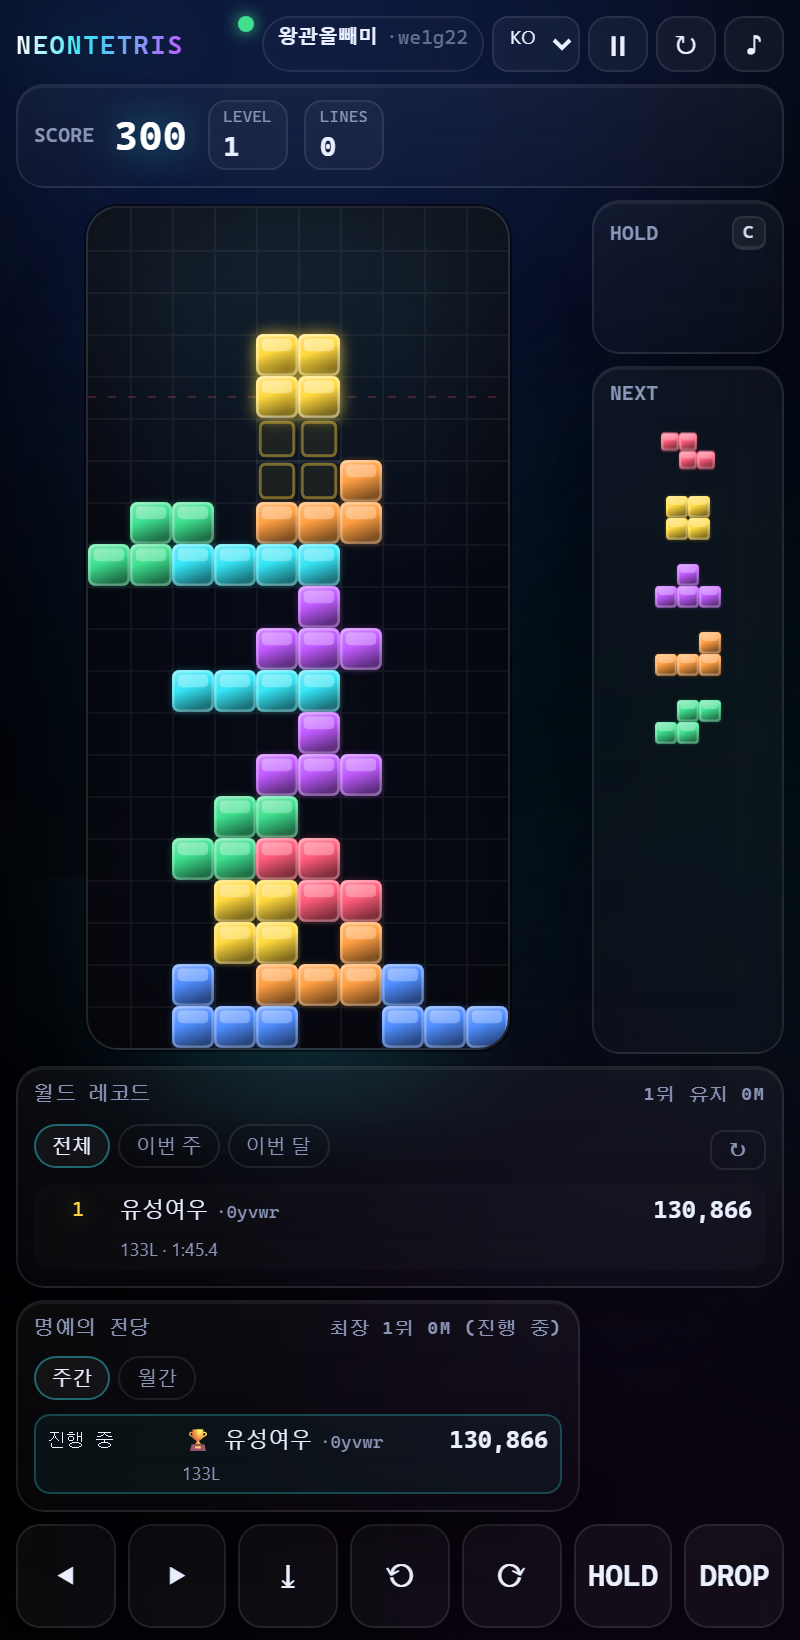
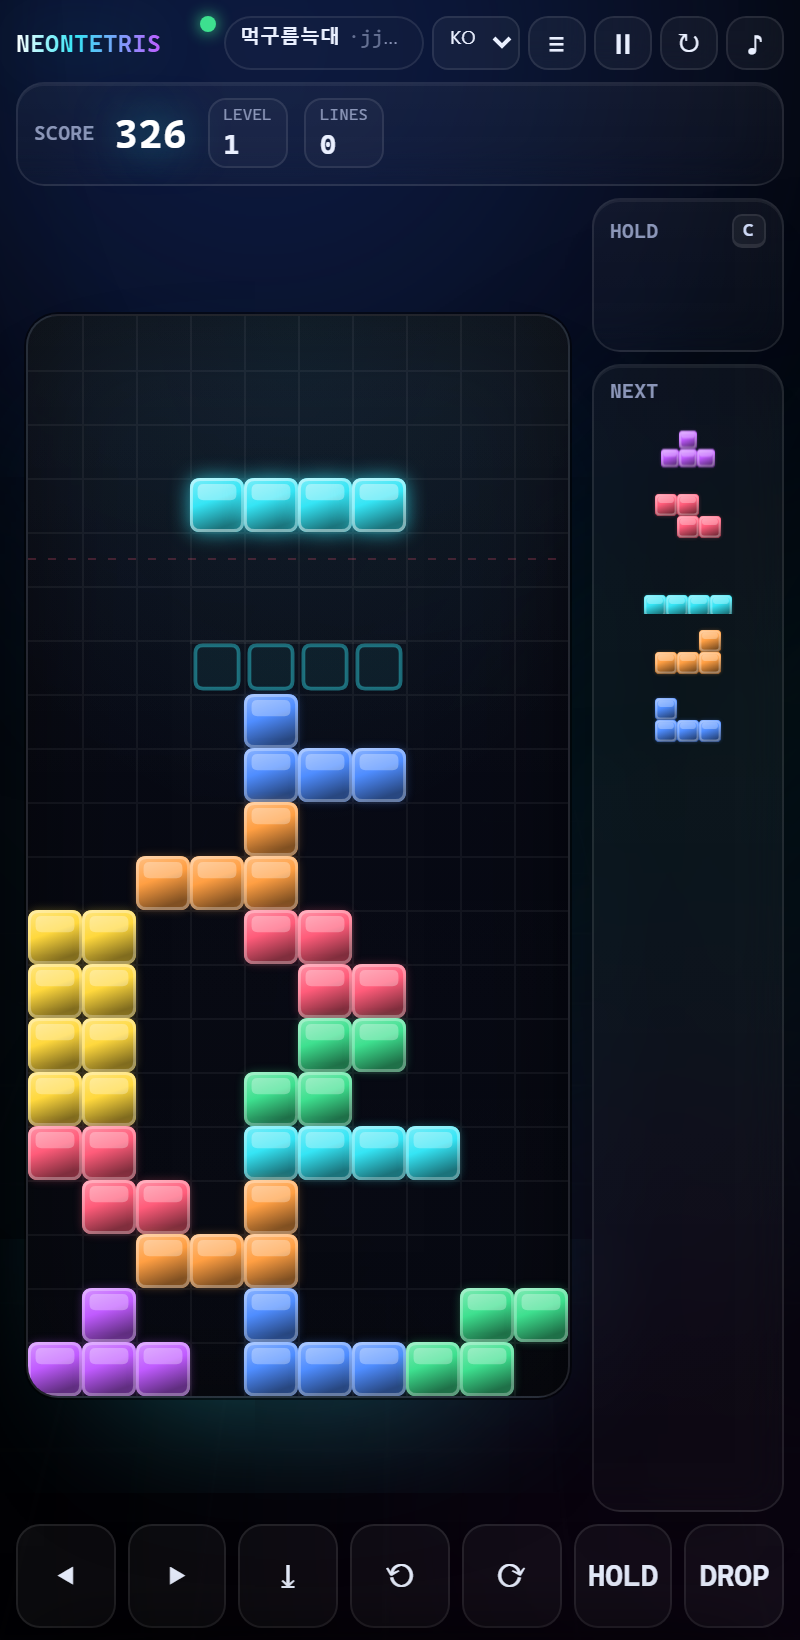
모바일: 월드 보드·명예의 전당을 ≡ 시트로 (보드 칸 21 → ~28px)
구조: index.html 에 .pane(id=pane) 을 만들어 worldCard + hofCard 를 감싼다.
- 데스크톱: .pane { display: contents } → 두 카드는 그냥 오른쪽 열에 쌓인다. 레이아웃 변화 0.
  (.side 가 모바일에서 이미 쓰던 기법이라 새 개념이 아니다.)
- 모바일: .pane 이 bottom 에 고정된 시트(최대 78vh, 스크롤)가 되고, body.pane-open 일 때 올라온다.
  바깥(스크림) 을 누르면 닫힌다. Esc 로는 닫지 않는다 — Esc 는 게임 쪽 일시정지와 겹쳐서
  한 키가 두 일을 하게 되기 때문(의도적). 시작(START) 시에는 위임 이벤트로 자동으로 닫는다.

왜 이렇게까지 하는가: 보드는 10×20 라서 세로가 항상 부족한 축인데, 카드 두 장이 화면 아래에서
그 자리를 쓰고 있었다. 흐름에서 빼면 그 세로가 보드로 간다 → 실측 칸 21px → ≥26px (probe 가 ≥26 고정).

≡ 버튼 하나 넣고 바로 걸린 것: 아이콘이 4개가 되면서 상단 바가 다시 넘쳤다(398>384, ♪ 잘림).
어제 넣은 검정 2개("상단 바가 폭을 넘치지 않는다", "버튼이 오른쪽 밖으로 잘리지 않는다")가
그 자리에서 FAIL 로 잡았다 — 사람이 눈으로 다시 보지 않아도 되는 상태.
예산 규칙을 주석으로 남겼다: 버튼은 눌러야 하므로 고정, 닉네임·브랜드가 양보한다(칩 max-width 100px).

추가로 발견한 오래된 구멍: data-i18n-title 속성을 쓰는 요소(langSel, 새 paneBtn)가 몇 개 있는데
applyI18n() 이 [data-i18n] 과 [data-i18n-ph] 만 처리해서, 툴팁이 늘 한국어 원문으로 남아 있었다. 처리기 추가.

검정: probe 모바일 섹션에 +4 (≡ 보인다 / 시트는 기본 화면 밖 / 누르면 월드 보드가 안으로 / 스크림으로 닫힘).
한 번 wcVisible:false 로 잡혔는데 원인은 제 검정의 고정 sleep → 상태를 poll 하도록 바꿔 안정화(2회 연속 0).
검증: test 99 / selftest 99(i18n 4언어 대칭 — pane.open 4개 포함) / verifytest 131 / e2e 41 / probe 실패 0

문서: QUICKSTART 모바일 노트("월드 보드가 안 보인다면 ≡"), UNVERIFIED #9 확인 방법에 ≡ 시트 추가
(headless 400px 로만 검증했고 실기기는 아직)

남은 다음: 터치 패드 2단(← → / ⤓·회·역회 / HOLD·DROP)

diff --git a/i18n.js b/i18n.js
@@ -55,6 +55,7 @@
       'time.pairHint': '재현 = 서버가 같은 입력으로 다시 돌려본 시간(순위는 이쪽으로 매겨진다). 클라이언트 = 시드 발급→제출까지의 실측이라 화면을 보거나 대기한 시간이 들어 있다. 재현이 클라이언트보다 크면 물리적으로 성립하지 않으므로 서버가 기각한다.',
       'replay.by': '{who}의 기록', 'replay.exit': '닫기', 'replay.watch': '리플레이',
       'dev.phone': '폰', 'dev.tablet': '태블릿', 'dev.desktop': '데스크톱', 'dev.hybrid': '터치+키보드',
+      'pane.open': '월드 보드 · 명예의 전당',
       'dev.hint': '기기는 브라우저가 스스로 보고한 분류입니다. 위조 가능하고 표시에만 쓰이며, 점수 판정에는 쓰지 않습니다.',
       'race.you': '나', 'race.them': '{who}', 'race.ahead': '+{gap}', 'race.behind': '-{gap}',
       'mine.title': '내 기록 (이 기기)', 'mine.empty': '이 브라우저에 저장된 기록이 없습니다.',
@@ -104,6 +105,7 @@
       'time.pairHint': 'Simulated = the time the server got by replaying the same inputs (this is what ranking uses). Client = measured from seed issue to submit, so it includes time spent looking at the screen. Simulated larger than client cannot physically happen — the server rejects it.',
       'replay.by': "{who}'s record", 'replay.exit': 'close', 'replay.watch': 'replay',
       'dev.phone': 'phone', 'dev.tablet': 'tablet', 'dev.desktop': 'desktop', 'dev.hybrid': 'touch+keyboard',
+      'pane.open': 'World board · Hall of Fame',
       'dev.hint': 'The device class is self-reported by the browser: it can be faked, is display-only, and is never used to judge a score.',
       'race.you': 'you', 'race.them': '{who}', 'race.ahead': '+{gap}', 'race.behind': '-{gap}',
       'mine.title': 'My records (this device)', 'mine.empty': 'No records saved in this browser.',
@@ -150,6 +152,7 @@
       'time.pairHint': '再現 = サーバーが同じ入力で遊び直した時間（順位はこれで決まる）。クライアント = シード発行から送信までの実測で、画面を見て待った時間も含む。再現の方がクライアントより大きければ物理的に成立しないのでサーバーが却下する。',
       'replay.by': '{who} の記録', 'replay.exit': '閉じる', 'replay.watch': 'リプレイ',
       'dev.phone': 'フォン', 'dev.tablet': 'タブレット', 'dev.desktop': 'デスクトップ', 'dev.hybrid': 'タッチ+キーボード',
+      'pane.open': 'ワールドボード · 殿堂',
       'dev.hint': '機器分類はブラウザが自分で申告したものです。偽装可能で表示専用、採点には使いません。',
       'race.you': '自分', 'race.them': '{who}', 'race.ahead': '+{gap}', 'race.behind': '-{gap}',
       'mine.title': '自分の記録（この端末）', 'mine.empty': 'このブラウザに保存された記録はありません。',
@@ -195,6 +198,7 @@
       'time.pairHint': '重放 = 服务器用同样的输入重新跑出的时间（排名用这个）。客户端 = 从发放种子到提交的实测，包含看屏幕的等待时间。重放比客户端还大就物理上不成立，服务器会拒绝。',
       'replay.by': '{who} 的记录', 'replay.exit': '关闭', 'replay.watch': '回放',
       'dev.phone': '手机', 'dev.tablet': '平板', 'dev.desktop': '台式机', 'dev.hybrid': '触屏+键盘',
+      'pane.open': '世界榜 · 名人堂',
       'dev.hint': '设备分类由浏览器自行上报（可伪造，仅作展示）——不用于判定成绩。',
       'race.you': '我', 'race.them': '{who}', 'race.ahead': '+{gap}', 'race.behind': '-{gap}',
       'mine.title': '我的记录（本设备）', 'mine.empty': '此浏览器没有保存的记录。',

diff --git a/probe.js b/probe.js
@@ -481,8 +481,32 @@ async function waitForTarget() {
   ok2(mobFix.topbarScroll <= mobFix.topbarClient + 1, '상단 바가 화면 폭을 넘치지 않는다', mobFix.topbarScroll + '>' + mobFix.topbarClient);
   ok2(mobFix.clip.length === 0, '버튼/셀렉트가 화면 오른쪽 밖으로 잘리지 않는다', mobFix.clip);
   ok2(mobFix.overlap <= 1, '보드가 SCORE 카드를 덮지 않는다', '겹침 ' + mobFix.overlap + 'px');
-  ok2(mobFix.cell >= 20, '모바일 칸 크기가 식별 가능한 수준(≥20px)', mobFix.cell + 'px');
+  ok2(mobFix.cell >= 26, '모바일 칸 크기가 식별 가능한 수준(≥26px — 카드가 시트로 빠져 흐름에서 벗어남)', mobFix.cell + 'px');
   ok2(mobFix.mine === 'none', '모바일에서 내 기록 카드는 접힌다', mobFix.mine);
+
+  /* 시트(≡): 기본은 화면 밖, 열리면 월드 보드가 안으로 올라오고, 스크림으로 닫힌다. */
+  const paneFix = JSON.parse(await evalJS(`(async () => {
+    const sleep = (ms)=>new Promise(r=>setTimeout(r,ms));
+    const btn = document.getElementById('paneBtn'), pane = document.getElementById('pane');
+    const before = { btn: btn ? getComputedStyle(btn).display : '없음', offTop: pane ? Math.round(pane.getBoundingClientRect().top) : -1, vh: innerHeight };
+    if (btn) btn.click();
+    /* 고정 sleep 은 경합한다(한 번 wcVisible:false 로 잡혔다). 전환이 끝날 때까지 상태를 본다. */
+    let open = { bodyOpen: false, wcVisible: false }, wc, i;
+    for (i = 0; i < 20; i++) {
+      await sleep(100);
+      wc = document.getElementById('worldCard').getBoundingClientRect();
+      open = { bodyOpen: document.body.classList.contains('pane-open'), wcVisible: wc.bottom > 0 && wc.top < innerHeight };
+      if (open.wcVisible) break;
+    }
+    open.retries = i;
+    const scrim = document.getElementById('paneScrim'); if (scrim) scrim.click();
+    await sleep(350);
+    return JSON.stringify({ before: before, open: open, closedAfterScrim: !document.body.classList.contains('pane-open') });
+  })()`, true));
+  ok2(paneFix.before.btn !== 'none' && paneFix.before.btn !== '없음', '모바일에서 ≡ 버튼이 보인다', paneFix.before.btn);
+  ok2(paneFix.before.offTop >= paneFix.before.vh - 1, '시트는 기본 상태에서 화면 밖에 있다', paneFix.before.offTop + ' vs vh ' + paneFix.before.vh);
+  ok2(paneFix.open.bodyOpen === true && paneFix.open.wcVisible === true, '≡ 를 누르면 월드 보드가 화면 안으로 올라온다', JSON.stringify(paneFix.open));
+  ok2(paneFix.closedAfterScrim === true, '스크림을 누르면 시트가 닫힌다', String(paneFix.closedAfterScrim));
   await cmd('Emulation.clearDeviceMetricsOverride');
 
   console.log('\n[7] 실제 시작 경로(플레이 버튼이 타는 그 함수) + 녹화 메타');

diff --git a/ui.css b/ui.css
@@ -230,6 +230,13 @@ body[data-lang="ko"] .ov-title { letter-spacing: -0.01em; }
 }
 .toast.on { opacity: 1; transform: translate(-50%, 0); }
 
+/* ---------- 시트(패널) ---------- */
+/* 데스크톱에서는 "없는 것과 같게": .pane 이 display:contents 라 카드는 그냥 오른쪽 열에 쌓인다.
+   모바일에서는 아래에서 올라오는 시트가 된다 — 월드 보드·명예의 전당이 보드의 세로를 먹지 못리게. */
+.pane { display: contents; }
+.pane-scrim { display: none; }
+#paneBtn { display: none; }
+
 /* ---------- 모바일 ---------- */
 @media (max-width: 900px) {
   /* 모바일은 보드 중심. 카드는 아래로 스크롤 (보드가 카드에 갉아먹히지 않게) */
@@ -278,6 +285,23 @@ body[data-lang="ko"] .ov-title { letter-spacing: -0.01em; }
   .submit-box { text-align: left; }
   .rp-head { font-size: 10px; }
   .wb-list { max-height: 132px; }
+  /* 시트 전개 */
+  #paneBtn { display: inline-flex; align-items: center; justify-content: center; }
+  .pane {
+    display: flex; flex-direction: column; gap: 10px;
+    position: fixed; left: 0; right: 0; bottom: 0; z-index: 45;
+    max-height: 78vh; overflow: auto; -webkit-overflow-scrolling: touch;
+    background: rgba(6, 9, 18, 0.97); border-top: 1px solid var(--line);
+    border-radius: 16px 16px 0 0; padding: 12px 10px calc(12px + env(safe-area-inset-bottom, 0px));
+    transform: translateY(101%); transition: transform 0.22s ease;
+    box-shadow: 0 -18px 44px -22px rgba(0, 0, 0, 0.9);
+  }
+  body.pane-open .pane { transform: none; }
+  .pane .card { margin: 0; }
+  .pane .wb-list, .pane .hof-list { max-height: 42vh; }
+  .pane-scrim { position: fixed; inset: 0; z-index: 44; background: rgba(2, 4, 10, 0.62); }
+  body:not(.pane-open) .pane-scrim { display: none; }
+  @media (prefers-reduced-motion: reduce) { .pane { transition: none; } }
 }
 
 @media (max-width: 520px) {
@@ -289,4 +313,9 @@ body[data-lang="ko"] .ov-title { letter-spacing: -0.01em; }
   .sel.mini { max-width: 50px; font-size: 9.5px; }
   .icon-btn { width: 30px; height: 28px; }
   .topbar, .topbar-actions { gap: 4px; }
+  /* ≡ (시트 버튼) 을 넣으면 아이콘이 4개가 되고 폭이 다시 넘친다(실측 398>384, ♪ 잘림 —
+     방금 넣은 검정이 그 자리에서 걸었다). 예산: 버튼은 눌러야 하므로 고정, 닉네임·브랜드가 양보한다. */
+  .logo { font-size: 12px; letter-spacing: 0.02em; }
+  .me-chip { max-width: 100px; }
+  .icon-btn { width: 29px; height: 27px; }
 }

diff --git a/client.js b/client.js
@@ -721,6 +721,25 @@
   }
 
   /* ================= 부트 ================= */
+  /** 모바일 시트(월드 보드 · 명예의 전당). 데스크톱에서는 .pane 이 display:contents 이고 버튼 자체가 숨겨진다.
+   *  일부러 Esc 로는 닫지 않는다: Esc 는 게임 쪽 일시정지와 겹쳐서, 한 키가 두 일을 하게 된다.
+   * 손가락 기기에서는 스크림 탭이 자연스러운 동작이라 그쪽으로 둔다. */
+  function wirePane() {
+    const btn = $('paneBtn'), scrim = $('paneScrim');
+    if (!btn) return;
+    const setPane = function (open) {
+      document.body.classList.toggle('pane-open', !!open);
+      btn.setAttribute('aria-expanded', open ? 'true' : 'false');
+    };
+    btn.addEventListener('click', function () { setPane(!document.body.classList.contains('pane-open')); });
+    if (scrim) scrim.addEventListener('click', function () { setPane(false); });
+    /* 시작했는데 시트가 보드를 덮고 있으면 소란스럽다. 버튼 생성 순서에 상관없이 위임으로 잡는다. */
+    document.addEventListener('click', function (e) {
+      const t = e.target;
+      if (t && (t.id === 'ovBtn' || (t.closest && t.closest('#ovBtn')))) setPane(false);
+    });
+  }
+
   CL.init = async function (cfg) {
     const explicit = new URLSearchParams(location.search).get('lang');
     L.set(L.detect([explicit, lsGet(STORE.lang, '')].filter(Boolean)));
@@ -732,6 +751,7 @@
       sel.addEventListener('change', function () { L.set(sel.value); location.reload(); });
     }
     applyI18n();
+    wirePane();
     await identity();
     if (!subtle || isFile) {
       const chip = $('meChip');
@@ -743,6 +763,10 @@
   function applyI18n() {
     Array.prototype.forEach.call(document.querySelectorAll('[data-i18n]'), function (el) {
       el.textContent = L.t(el.getAttribute('data-i18n'));
+    });
+    /* data-i18n-title 을 쓰는 요소(langSel, paneBtn)가 있었는데 처리기가 없었다 — 툴팁이 원어로 남아 있었다. */
+    Array.prototype.forEach.call(document.querySelectorAll('[data-i18n-title]'), function (el) {
+      el.setAttribute('title', L.t(el.getAttribute('data-i18n-title')));
     });
     Array.prototype.forEach.call(document.querySelectorAll('[data-i18n-ph]'), function (el) {
       el.setAttribute('placeholder', L.t(el.getAttribute('data-i18n-ph')));

diff --git a/index.html b/index.html
@@ -30,6 +30,7 @@
       <span class="net" id="netDot" title="server"></span>
       <span class="me-chip" id="meChip"></span>
       <select class="sel mini" id="langSel" data-i18n-title="lang.label" title="language"></select>
+      <button class="icon-btn" id="paneBtn" data-i18n-title="pane.open" title="월드 보드·명예의 전당" aria-expanded="false" aria-controls="pane">≡</button>
       <button class="icon-btn" id="pauseBtn" title="일시정지 (P)">❙❙</button>
       <button class="icon-btn" id="restartBtn" title="재시작 (R)">↻</button>
       <button class="icon-btn" id="muteBtn" title="소리 (M)">♪</button>
@@ -112,6 +113,9 @@
         <div class="chips" id="chips"></div>
       </section>
 
+      <!-- 시트(모바일): 데스크톱에서는 .pane 이 display:contents 라 아래 두 카드가 그냥 오른쪽 열에 쌓인다.
+           모바일에서는 화면 아래에서 올라오는 패널이 된다 — 보드가 카드에 세로를 안 뺏기게. -->
+      <div class="pane" id="pane">
       <section class="card" id="worldCard">
         <div class="card-head"><span data-i18n="board.title">월드 레코드</span><span class="hint" id="wbHold"></span></div>
         <div id="worldBoard"></div>
@@ -128,6 +132,8 @@
         </div>
         <div class="hof-list" id="hofList"><div class="muted">…</div></div>
       </section>
+      </div><!-- /pane -->
+      <div class="pane-scrim" id="paneScrim"></div>
     </aside>
   </main>
 

diff --git a/UNVERIFIED.md b/UNVERIFIED.md
@@ -23,7 +23,7 @@
 | 6 | **성능 수치의 재현성** | 같은 기계·같은 코드로 접수 처리량 162 → 107건/초, 발행 75 → 57.7건/초 (≈2배) | 백그라운드·Defender·전원 계획 등 측정 환경을 통제하지 않았다. 그래서 README 는 이제 범위로 적혀 있다 | 배포 대상 머신에서 `npm run load` 를 3회 + 전원 계획/백그라운드 고정한 채 재실측 | 문서의 숫자를 믿고 용량을 계획하면 틀린다. "밀려도 서버는 선다" 는 성질만 믿는다 | ☐ |
 | 7 | **PWA 설치 가능 여부** | `manifest.webmanifest` 는 있고 `/favicon.svg` 만 아이콘으로 참조한다. 서비스 워커는 **없다**(의도적) | 설치 프롬프트는 브라우저 요구(대개 PNG 192/512)를 받는다. 실물 설치 시도 안 해봄 | Chrome/Android 에서 실제 설치 → 오프라인에서 열었을 때 어떻게 되는지 확인(지금으론 캐시가 없어 새로 다운로드될 것) | "설치되는 줄 알았는데 안 된다" 또는 "설치됐는데 오프라인이면 새 로드를 못 한다" 의 혼동. 미구현 항목임을 README 가 이미 말한다 | ☐ |
 | 8 | **다중 인스턴스 / SQLite 스케일아웃** | WAL 로 단일 프로세스에서 동작 확인(테스트·부하). 파기는 자동 | 두 인스턴스를 띄우면 `runs` 쓰기가 경합한다. LiteFS/Postgres 전환 경로도 미검증 | 2인스턴스로 같은 DB 파일을 공유해 올려보고(로컬 디스크) 오류·중복 발행을 관찰 → 필요 시 전환 계획 수립 | 트래픽이 커진 뒤에야 "스케일아웃이 안 된다" 를 알게 된다. 지금은 알았고, 그때는 모르게 된다 | ☐ |
-| 9 | **브라우저 범위** | Edge/Chrome(headless) 에서 자동 검증: 입력→점수, 렌더링, IndexedDB 지문 유지, 폰트, 크로스 런타임 해시 | Safari/Firefox, 그리고 **실제 모바일 기기**를 한 번도 안 태웠다. 특히 `extractable:false` 키의 IndexedDB 저장, `document.fonts`, 자동재생 정책(음성) 의 구현차 | iOS Safari / Android Chrome / Firefox 에서 실제 플레이 → 새로고침 후 지문 유지 → 제출 → 공유 링크 재생 | 특정 브라우저에서 제출이 조용히 안 되거나, 서명 키가 매번 새로 만들어져 기록 소유가 깨질 수 있다 | ☐ |
+| 9 | **브라우저 범위** | Edge/Chrome(headless) 에서 자동 검증: 입력→점수, 렌더링, IndexedDB 지문 유지, 폰트, 크로스 런타임 해시 | Safari/Firefox, 그리고 **실제 모바일 기기**를 한 번도 안 태웠다. 특히 `extractable:false` 키의 IndexedDB 저장, `document.fonts`, 자동재생 정책(음성) 의 구현차 | iOS Safari / Android Chrome / Firefox 에서 실제 플레이 → 새로고침 후 지문 유지 → 제출 → 공유 링크 재생. 모바일에서 **`≡` 시트**(월드 보드·명예의 전당) 도 포함 — 지금은 headless 400px 로만 검증했다 | 특정 브라우저에서 제출이 조용히 안 되거나, 서명 키가 매번 새로 만들어져 기록 소유가 깨질 수 있다 | ☐ |
 | 10 | **실제 HTTPS 환경** | `file://` 에서 `isSecureContext=true`·WebCrypto OK 를 실측. 리버스 프록시 설정 초안은 있음 | 실 TLS 서명·리다이렉트·HSTS 를 거쳐 본 적 없음. 비-HTTPS면 브라우저가 WebCrypto 를 못 써 제출이 꺼진다는 게 **문서상 예측** | 배포 후 `https://` 에서 `/api/health`, 세션 발급, 서명 제출, `/r/` 재생까지 한 바퀴 | HTTPS 없으면 "게임만 되는 사이트" 가 된다. 경고는 DEPLOY 에 있으나 실측이 없다 | ☐ |
 | 11 | **OG 미리보기 실물** | `/r/*` 에 `X-Robots-Tag: noindex`, OG 태그, no-referrer 를 붙이고 HTML 생성을 테스트로 확인 | 카카오톡/디스코드/슬랙의 크롤러가 실제로 무엇을 표시하는지 eyeball 확인 안 함 | 실 배포 후 링크를 세 서비스에 던져보고 미리보기를 확인 (이름 노출 여부 포함 — 정책상 이름은 공유자만 보는 페이지에 있다) | 의도와 다른 미리보기(이름 노출/이미지 없음) 가 남에게 먼저 보인다 | ☐ |
 | 12 | **기간 집계 경계** | 주 키는 ISO 주(목요일 기준) · UTC, 일/월도 UTC 기준. 라이브/스냅샬 이원화됨 | DST 도 없고 UTC 라 안전해 보이지만, 사용자 체감 "이번 주" 경계(한국 시간 목요일 새벽 등) 를 확인하지 않았다 | 한국 시간대 사용자로 금요일/일요일에 제출해 "주간" 에 잡히는지 확인 | 주말에 세운 기록이 다음 주로 밀려 표시될 수 있다 (기록·순위 자체는 그대로 있고 라벨만 어긋난다) | ☐ |

diff --git a/QUICKSTART.md b/QUICKSTART.md
@@ -111,3 +111,5 @@ docker run -d -p 8787:8787 -v $PWD/data:/app/data --restart unless-stopped neon-
 | `P` `Esc` | 일시정지 · `R` 재시작 · `M` 소리 |
 
 모바일/태블릿은 화면 아래 터치 바가 뜹니다. 모드 3종(MARATHON / SPRINT 40 / ULTRA 2:00)과 시작 레벨 1–20, 20G 옵션이 있습니다.
+
+> **모바일에서 월드 보드가 안 보인다면?** 좁은 화면에서 보드를 크게 만들기 위해 월드 보드·명예의 전당은 **위쪽의 `≡` 버튼**으로 여는 패널로 들어갔습니다. 손가락으로 화면 아래에서 밀어올리는 식으로 열리고, 바깥을 누르면 닫힙니다. 데스크톱에서는 예전처럼 오른쪽에 항상 보입니다.
